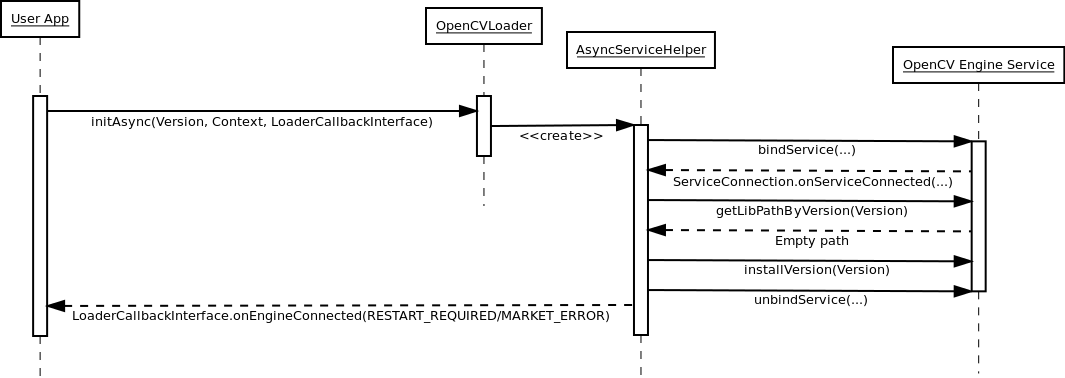
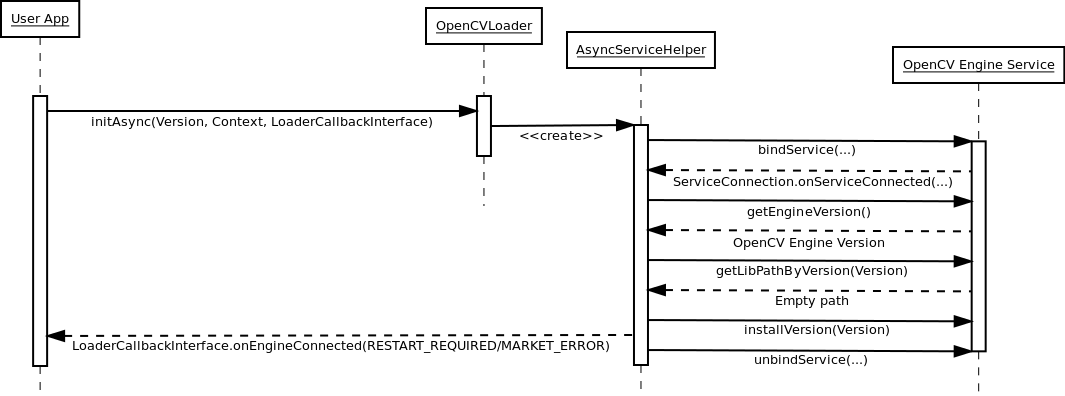
Docs for OpenCV Engine updated. Structure diagram added. Sequence diagrams updated.
git-svn-id: file://localhost/home/tolik/svnrepo/branches/ocv_android_service@8397 c5418bc3-7546-4aae-8bad-fa6f2f3e53e6

diff --git a/android/service/doc/Intro.rst b/android/service/doc/Intro.rst
@@ -24,9 +24,14 @@ First OpenCV app\:
 - User starts application. Application proposes to user to install OpenCV library for target device and runs Google Play;
 - User runs app in the third time  and gets what he or she wants.
 
-Next OpenCV app:
+Next OpenCV app\:
 
 - User downloads app dependent from OpenCV from Google Play or installs it manually;
 - User starts application.
 - If selected version is not installed Engine asks user to install OpenCV library package and runs Google Play;
 - User runs app in the second time and gets what he or she wants.
+
+OpenCV Engine structure
+-----------------------
+
+.. image:: img/Structure.dia.png
